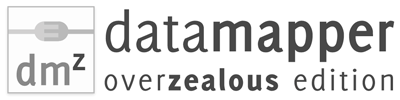
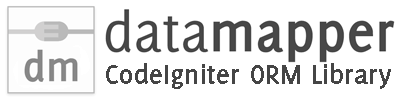
updated the website images to reflect the new name updated the Google search box to search our new site added a robots.txt fixed a typo on the homepage

Changed region(s): [[0.24, 0.63, 0.99, 0.93], [0.03, 0.48, 0.24, 0.87]]

diff --git a/manual/index.html b/manual/index.html
@@ -10,6 +10,7 @@
 <link rel="stylesheet" type="text/css" media="all" href="./css/userguide.css" />
 <link rel="alternate" type="application/rss+xml" title="Datamapper ORM Updates Feed" href="http://datamapper.exitecms.org/rss.xml" />
 
+<meta name="google-site-verification" content="WW-Yd27KfkLDM0Cx4GwtR1XZCNt3xZ4uzEYBfIYJRvI" />
 <meta http-equiv="expires" content="-1" />
 <meta http-equiv= 'pragma' content="no-cache" />
 <meta name="robots" content="all" />
@@ -66,17 +67,19 @@ User Guide Home
 <p>If you are new to Datamapper ORM, <a href="pages/requirements.html">please start here</a> to get Datamapper ORM running on your server.  Then follow along with the <b>Next Topic</b> links at the bottom of each page.</p>
 <p>If you are an existing Datamapper ORM user, you will find <a href="pages/changelog.html">changes in new releases</a> and <a href="pages/upgrade.html">upgrade instructions</a>.
 
-<h2>The Original DataMapper</h2>
+<h2>DataMapper ORM</h2>
 
-<p>DataMapper (for CodeIgniter) was originally developed by <a href="http://stensi.com/">Simon Stenhouse</a>.  The basic design and original development was by him.</p>
+<p>This latest incarnation of the Datamapper library. After Phil had indicated he no longer had the time available to support his OverZealous Edition, Datamapper ORM is now being developed and maintained by <a href="http://www.exitecms.org/">Harro Verton</a>.</p>
 
 <h2>DataMapper, OverZealous Edition</h2>
 
 <p>This came from a desire to continue to enhance and develop DataMapper, and has been developed and maintained by <a href="http://www.overzealous.com/">Phil DeJarnett</a>.  DMZ is a near drop-in replacement if you are already using DataMapper 1.6.0 (and possibly older versions).</p>
 
-<h2>DataMapper ORM</h2>
+<h2>The Original DataMapper</h2>
 
-<p>This latest incarnation of the Datamapper library. After Phil had indicated he no longer had the time available to support his OverZealous Edition, Datamapper ORM is no being developed and maintained by <a href="http://www.exitecms.org/">Harro Verton</a>.</p>
+<p>DataMapper (for CodeIgniter) was originally developed by <a href="http://stensi.com/">Simon Stenhouse</a>.  The basic design and original development was by him.</p>
+
+<p>&nbsp;</p>
 
 <p>Some of the enhancements to the original DataMapper include:</p>
 <ul>

diff --git a/manual/js/menu.js b/manual/js/menu.js
@@ -217,7 +217,7 @@ var Menu = new Class({
 		var bc = $('breadcrumb');
 		var td = document.createElement('td');
 		td.id = "searchbox";
-		td.innerHTML = '<form action="http://www.google.com/cse" id="cse-search-box"><div><input type="hidden" name="cx" value="008354941032691925435:4ahuysnncow" /><input type="hidden" name="ie" value="UTF-8" />Search User Guide: <input class="input search" id="googleSearchBox" type="text" name="q" size="31" /> <input class="submit" type="submit" name="sa" value="Go" /></div></form>';
+		td.innerHTML = '<form action="http://www.google.com/cse" id="cse-search-box"><div><input type="hidden" name="cx" value="009945192369939474941:ne90ecfhzhm" /><input type="hidden" name="ie" value="UTF-8" />Search User Guide: <input class="input search" id="googleSearchBox" type="text" name="q" size="31" /> <input class="submit" type="submit" name="sa" value="Go" /></div></form>';
 		bc.parentNode.appendChild(td);
 	}
 });
